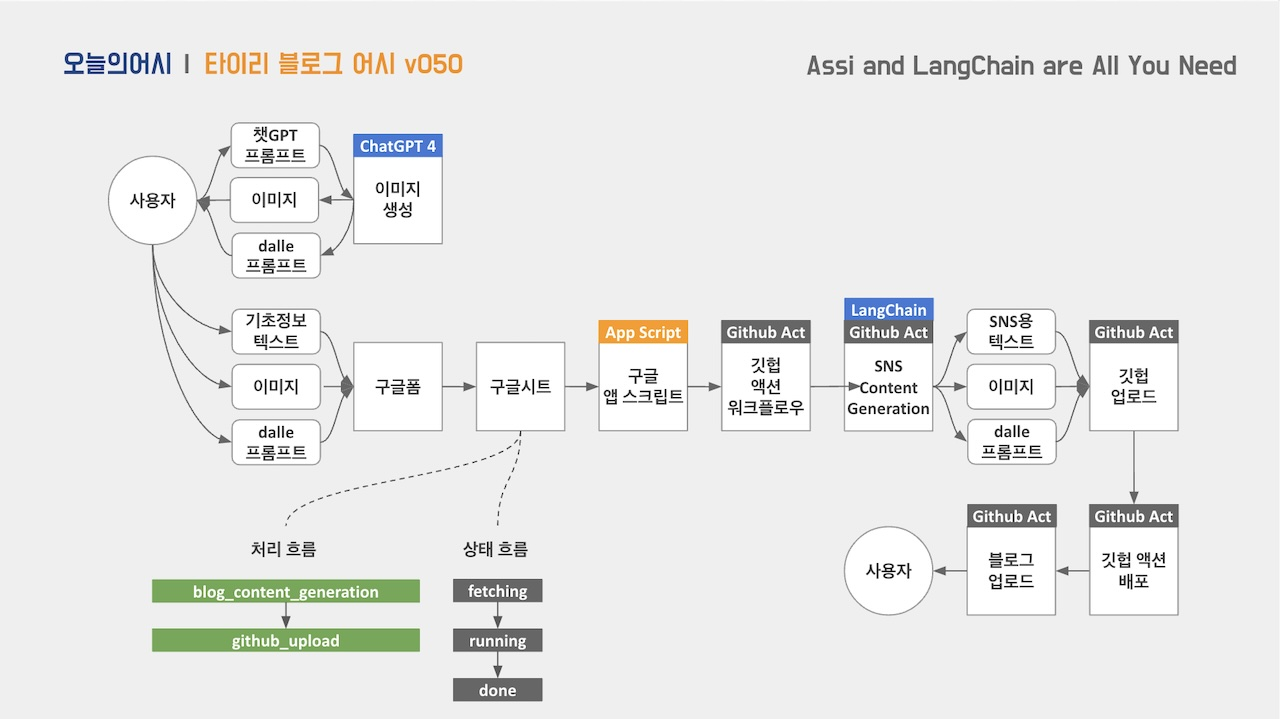
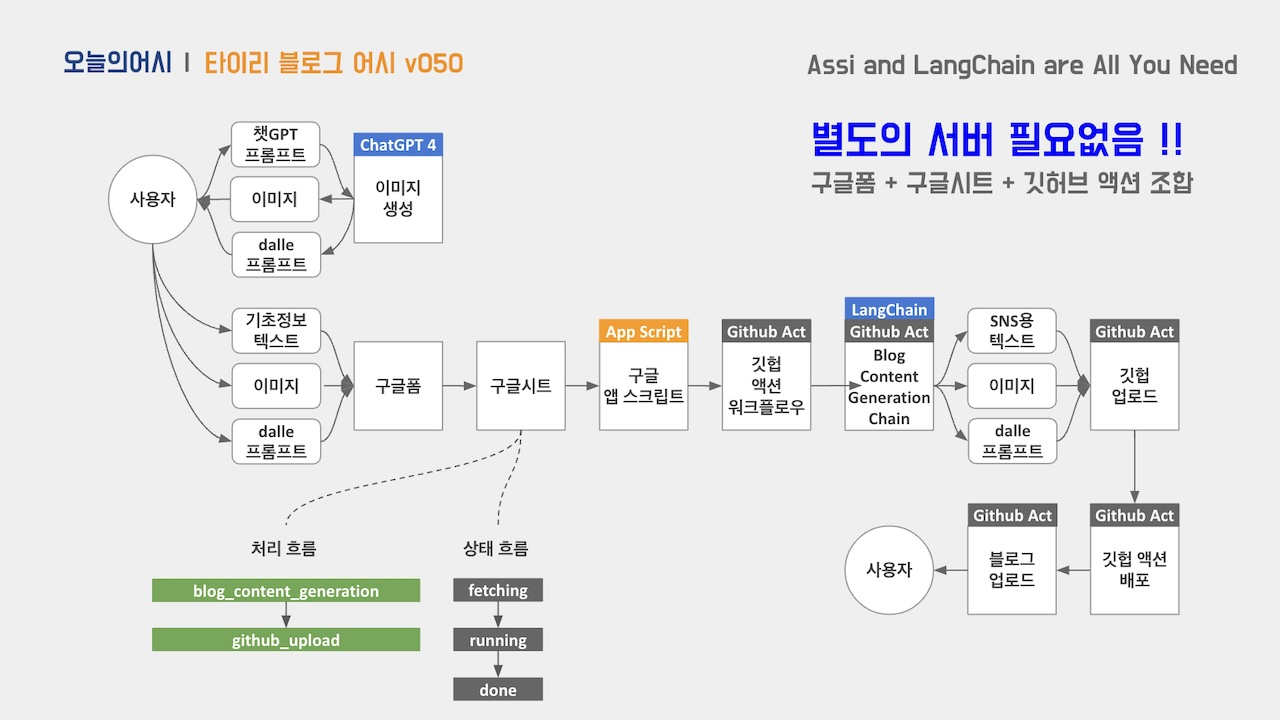
수정

diff --git a/_posts/2024-4-13-simplifying_virtual_influencer_blog_creation_with_google_forms,_github_actions,_and_langchain.md b/_posts/2024-4-13-simplifying_virtual_influencer_blog_creation_with_google_forms,_github_actions,_and_langchain.md
@@ -8,41 +8,53 @@ comments: true
 image: http://tykimos.github.io/warehouse/2024/2024-4-13-simplifying_virtual_influencer_blog_creation_with_google_forms,_github_actions,_and_langchain_title.jpg
 ---
 
-본 내용은 (어시+랭체인)에 의해 자동으로 작성된 글입니다.
-
 ![img](http://tykimos.github.io/warehouse/2024/2024-4-13-simplifying_virtual_influencer_blog_creation_with_google_forms,_github_actions,_and_langchain_title.jpg)
-프로젝트 개요
-이 프로젝트의 목적은 구글 폼을 통해 입력받은 데이터를 바탕으로 자동으로 블로그 내용을 생성하고, 생성된 블로그 내용을 깃허브 페이지에 자동으로 업로드하는 시스템을 구축하는 것입니다. 이를 통해 블로그 작성과 배포 과정을 보다 효율적으로 관리할 수 있게 됩니다.
 
-사용 기술 및 도구 소개
-이 프로젝트에서는 구글폼, 구글시트, GPT-4, 깃허브 페이지 등의 도구와 기술을 활용합니다. 구글폼은 사용자로부터 블로그의 제목과 기본 내용을 입력받는 역할을 하며, 구글시트는 이렇게 입력받은 내용을 관리하는 역할을 합니다. GPT-4는 입력받은 기본 내용을 바탕으로 상세한 블로그 내용을 생성하는 역할을 하며, 깃허브 페이지는 생성된 블로그 내용을 웹에 게시하는 역할을 합니다.
+이 어시 체인의 목적은 구글 폼을 통해 입력받은 데이터를 바탕으로 자동으로 블로그 내용을 생성하고, 생성된 블로그 내용을 깃허브 페이지에 자동으로 업로드하는 것입니다. 이를 통해 블로그 작성과 배포 과정을 보다 효율적으로 관리할 수 있게 됩니다.
 
-전체적인 워크플로우 설명
+### 사용 기술 및 도구 소개
+
+구글폼, 구글시트, 랭체인, GPT-4, 깃허브 페이지 등의 도구와 기술을 활용합니다. 구글폼은 사용자로부터 블로그의 제목과 기본 내용을 입력받는 역할을 하며, 구글시트는 이렇게 입력받은 내용을 관리하는 역할을 합니다. 랭체인(with GPT-4)는 입력받은 기본 내용을 바탕으로 상세한 블로그 내용을 생성하는 역할을 하며, 깃허브 페이지는 생성된 블로그 내용을 웹에 게시하는 역할을 합니다.
+
+### 전체적인 워크플로우 설명
+
 1. 사용자가 구글폼을 통해 블로그의 제목과 기본 내용을 입력합니다.
 2. 입력한 내용은 구글시트에 자동으로 저장됩니다.
-3. GPT-4는 구글시트에 저장된 내용을 바탕으로 상세한 블로그 내용을 생성합니다.
+3. 랭체인(with GPT-4)는 구글시트에 저장된 내용을 바탕으로 상세한 블로그 내용을 생성합니다.
 4. 생성된 블로그 내용은 깃허브 페이지에 자동으로 업로드되어 웹에 게시됩니다.
 
-각 컴포넌트의 역할
-- 구글폼: 사용자로부터 블로그의 제목과 기본 내용을 입력받습니다.
-- 구글시트: 입력받은 내용을 저장하고 관리합니다.
-- GPT-4: 저장된 내용을 바탕으로 상세한 블로그 내용을 생성합니다.
-- 깃허브 페이지: 생성된 블로그 내용을 웹에 게시합니다.
+### 세부 내용
 
-세부 구현
-Google Forms 설정: 사용자로부터 블로그의 제목과 기본 내용을 입력받을 수 있는 폼을 생성합니다.
-Google Sheets 연동: 구글폼에 입력된 내용이 구글시트에 자동으로 업로드되도록 연동합니다.
-Google Apps Script 사용법: 구글시트에 새로운 데이터가 추가될 때마다 깃허브 액션을 트리거하도록 구글 앱 스크립트를 작성합니다.
-GitHub Actions 설정: 깃허브 액션을 설정하여 GPT-4를 통해 블로그 내용을 생성하고, 생성된 내용을 깃허브 페이지에 업로드하는 작업을 자동으로 수행하도록 합니다.
+블로그 내용을 손쉽게 작성하기 위한 구글폼을 생성합니다. 간단한 스토리를 입력할 sketch 내용과 이미지 파일 그리고 dalle prompt을 입력할 수 있도록 구성하였습니다.
 
-워크플로우 트리거
-구글폼에 새로운 데이터가 입력될 때마다 구글 앱 스크립트가 실행되어 깃허브 액션을 트리거합니다. 이렇게 트리거된 깃허브 액션은 설정한 파이썬 스크립트를 실행하여 GPT-4를 통해 블로그 내용을 생성하고, 생성된 내용을 깃허브 페이지에 업로드합니다.
+![img](http://tykimos.github.io/warehouse/2024/2024-4-13-simplifying_virtual_influencer_blog_creation_with_google_forms,_github_actions,_and_langchain_1.png)
 
-정적 페이지 생성 및 배포
-깃허브 액션을 통해 생성된 블로그 내용은 깃허브 페이지를 통해 정적 웹 페이지로 변환되어 웹에 게시됩니다. 이렇게 게시된 웹 페이지는 사용자가 웹 브라우저를 통해 언제든지 접근하여 확인할 수 있습니다.
+사용자가 구글폼에 내용을 입력하면 자동으로 시트가 업데이트 됩니다. 왼쪽 녹색 박스가 사용자가 입력한 부분이고, 오른쪽 노란색 박스가 어시 체인에 의해 관리되는 처리 상태 정보입니다.
 
-결과 및 활용 사례
-이 시스템을 통해 사용자는 구글폼을 통해 간단히 블로그의 제목과 기본 내용을 입력하기만 하면, 나머지 블로그 작성 및 업로드 과정이 자동으로 수행되므로 블로그 관리의 효율성을 크게 향상시킬 수 있습니다. 또한 이 시스템은 블로그뿐만 아니라 다양한 웹 콘텐츠의 생성과 배포에도 활용할 수 있습니다.
+![img](http://tykimos.github.io/warehouse/2024/2024-4-13-simplifying_virtual_influencer_blog_creation_with_google_forms,_github_actions,_and_langchain_2.png)
 
-결론
-이 프로젝트를 통해, 사용자는 블로그 작성과 업로드 과정을 크게 단순화하고, 이를 통해 생산성을 향상시킬 수 있습니다. 또한 이 시스템은 블로그뿐만 아니라 다양한 웹 콘텐츠의 생성과 배포에도 활용할 수 있어 매우 높은 활용성을 가지고 있습니다. 인공지능의 발전과 함께 이 시스템은 더욱 진보하고 다양한 형태로 발전할 것으로 예상됩니다.
+구글폼에 의해 새로운 내용이 추가되면 아래 구글 앱 스크립트가 자동으로 동작됩니다. 이 스트립트의 주요 내용은 깃허브 액션의 워크플로우를 실행 요청을 하는 것입니다. 깃허브에서 제공하는 API를 사용합니다. 
+
+![img](http://tykimos.github.io/warehouse/2024/2024-4-13-simplifying_virtual_influencer_blog_creation_with_google_forms,_github_actions,_and_langchain_6.png)
+
+그럼 미리 정의한 워크플로우에 의해서 파이썬 코드가 실행됩니다. 깃허브 액션 탭에서 실시간으로 과정을 확인해볼 수 있습니다. 
+
+![img](http://tykimos.github.io/warehouse/2024/2024-4-13-simplifying_virtual_influencer_blog_creation_with_google_forms,_github_actions,_and_langchain_3.png)
+
+실행되는 파이썬 코드의 핵심인 랭체인은 아래와 같이 구성되어 있습니다. 이 체인은 사용자가 입력한 sketch로부터 미리 설정한 프롬프트에 의해 "타이리"의 페르소나에 맞게 내용이 작성됩니다.
+
+![img](http://tykimos.github.io/warehouse/2024/2024-4-13-simplifying_virtual_influencer_blog_creation_with_google_forms,_github_actions,_and_langchain_4.png)
+
+blog-writing 액션 실행이 완료되면, 마크다운 파일이 깃허브에 업로드가 되고, 이로 인해 pages-build-development 액션이 자동으로 연달아 실행됩니다. 
+
+![img](http://tykimos.github.io/warehouse/2024/2024-4-13-simplifying_virtual_influencer_blog_creation_with_google_forms,_github_actions,_and_langchain_5.png)
+
+이렇게 생성된 블로그는 아래와 같습니다. 
+
+- 구경하기 : ![https://tyritarot.github.io/](https://tyritarot.github.io/)
+
+![img](http://tykimos.github.io/warehouse/2024/2024-4-13-simplifying_virtual_influencer_blog_creation_with_google_forms,_github_actions,_and_langchain_7.png)
+
+### 마무리
+
+이 어시체인을 통해 사용자는 구글폼을 통해 간단히 블로그의 제목과 기본 내용을 입력하기만 하면, 나머지 블로그 작성 및 업로드 과정이 자동으로 수행되므로 블로그 관리의 효율성을 크게 향상시킬 수 있습니다. 또한 이 시스템은 블로그뿐만 아니라 다양한 웹 콘텐츠의 생성과 배포에도 활용할 수 있습니다.
